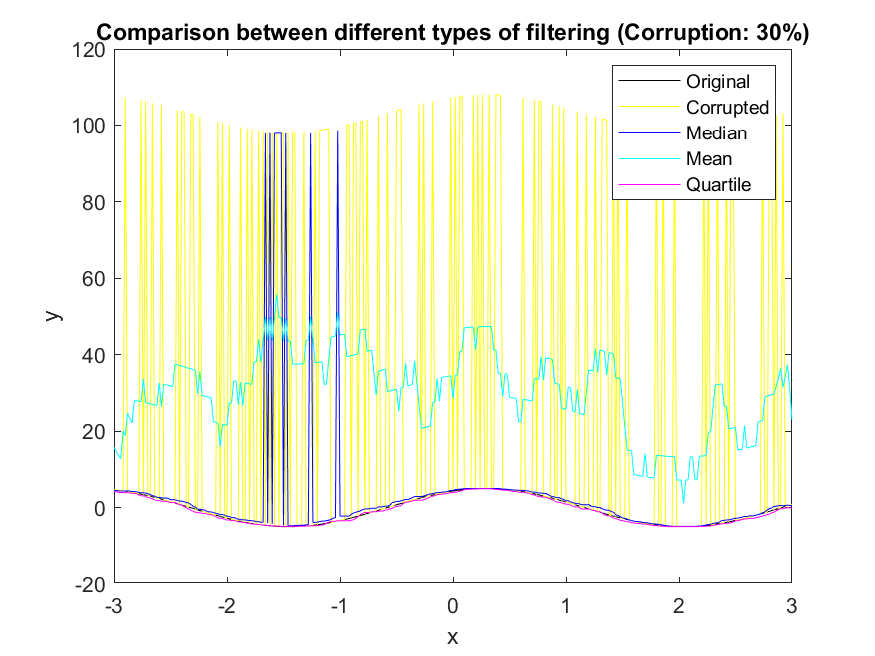
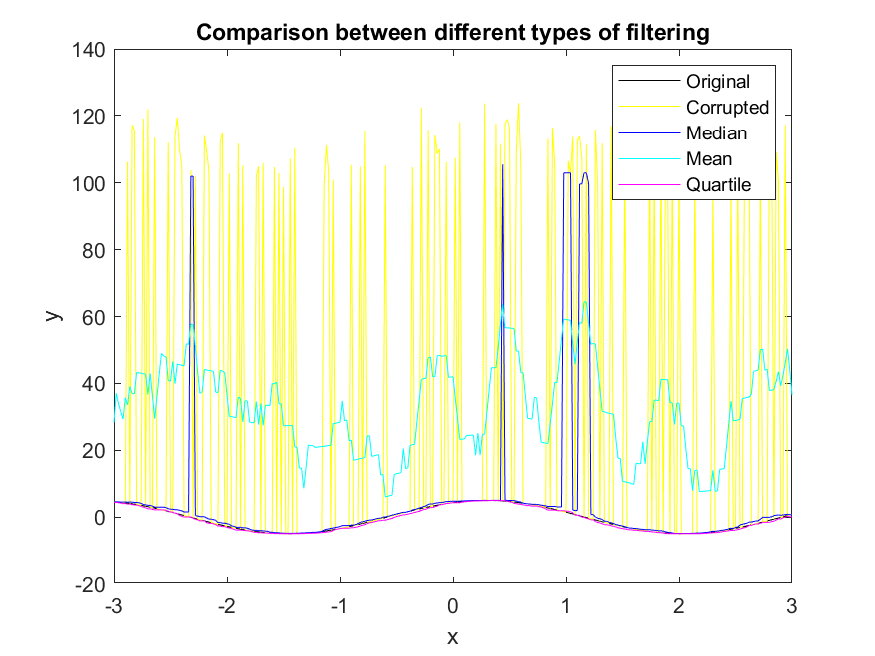
Final q6.m

Changed region(s): [[0.0926, 0.1524, 0.9257, 0.8232], [0.0926, 0.0305, 0.9257, 0.0915]]

diff --git a/Matlab/q6.m b/Matlab/q6.m
@@ -9,12 +9,12 @@ plot(x, y, 'black');
 hold on;
 
 % Corrupted data:
-f = 0.6; % Fraction to be corrupted
+f = 0.3; % Fraction to be corrupted (Change this to the amount of corruption you need)
 z = y;
 n = length(z);
 n_corrupt = round(f*n);
 corrupt_indices = randperm(n, n_corrupt);
-z(corrupt_indices) = z(corrupt_indices) + (100 + 20*rand(1, n_corrupt));
+z(corrupt_indices) = z(corrupt_indices) + (100 + 20*rand(1,n_corrupt));
 
 plot(x, z, 'y');
 
@@ -52,5 +52,7 @@ legend("Original", "Corrupted", "Median", "Mean", "Quartile")
 ylabel("y");
 xlabel("x");
 title("Comparison between different types of filtering");
+
+
 
 
